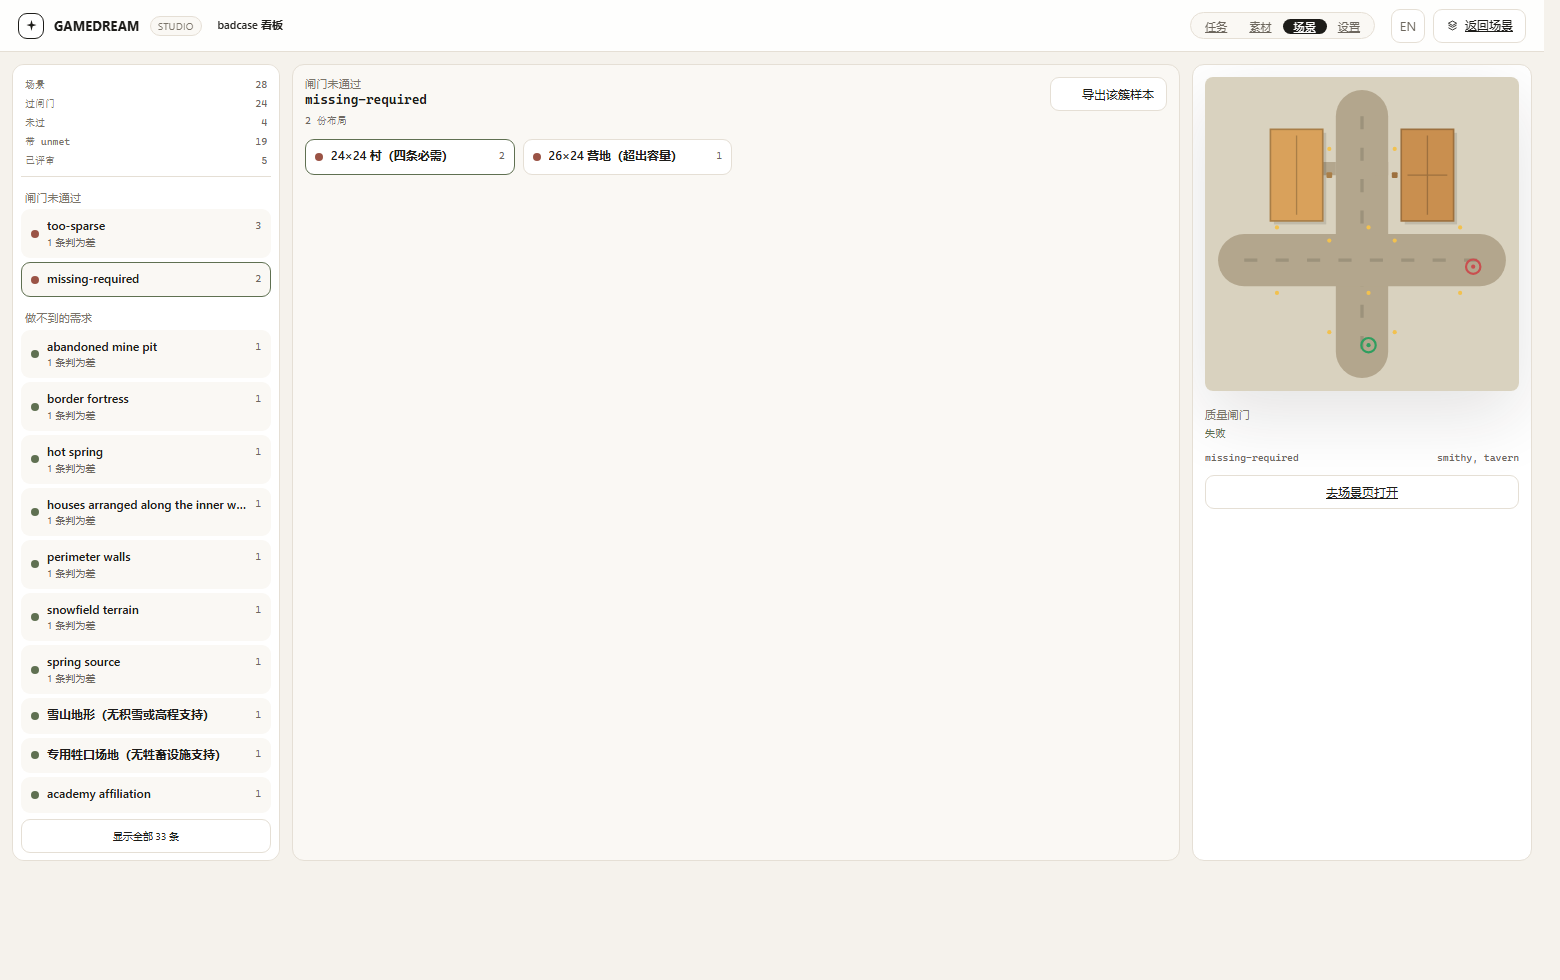
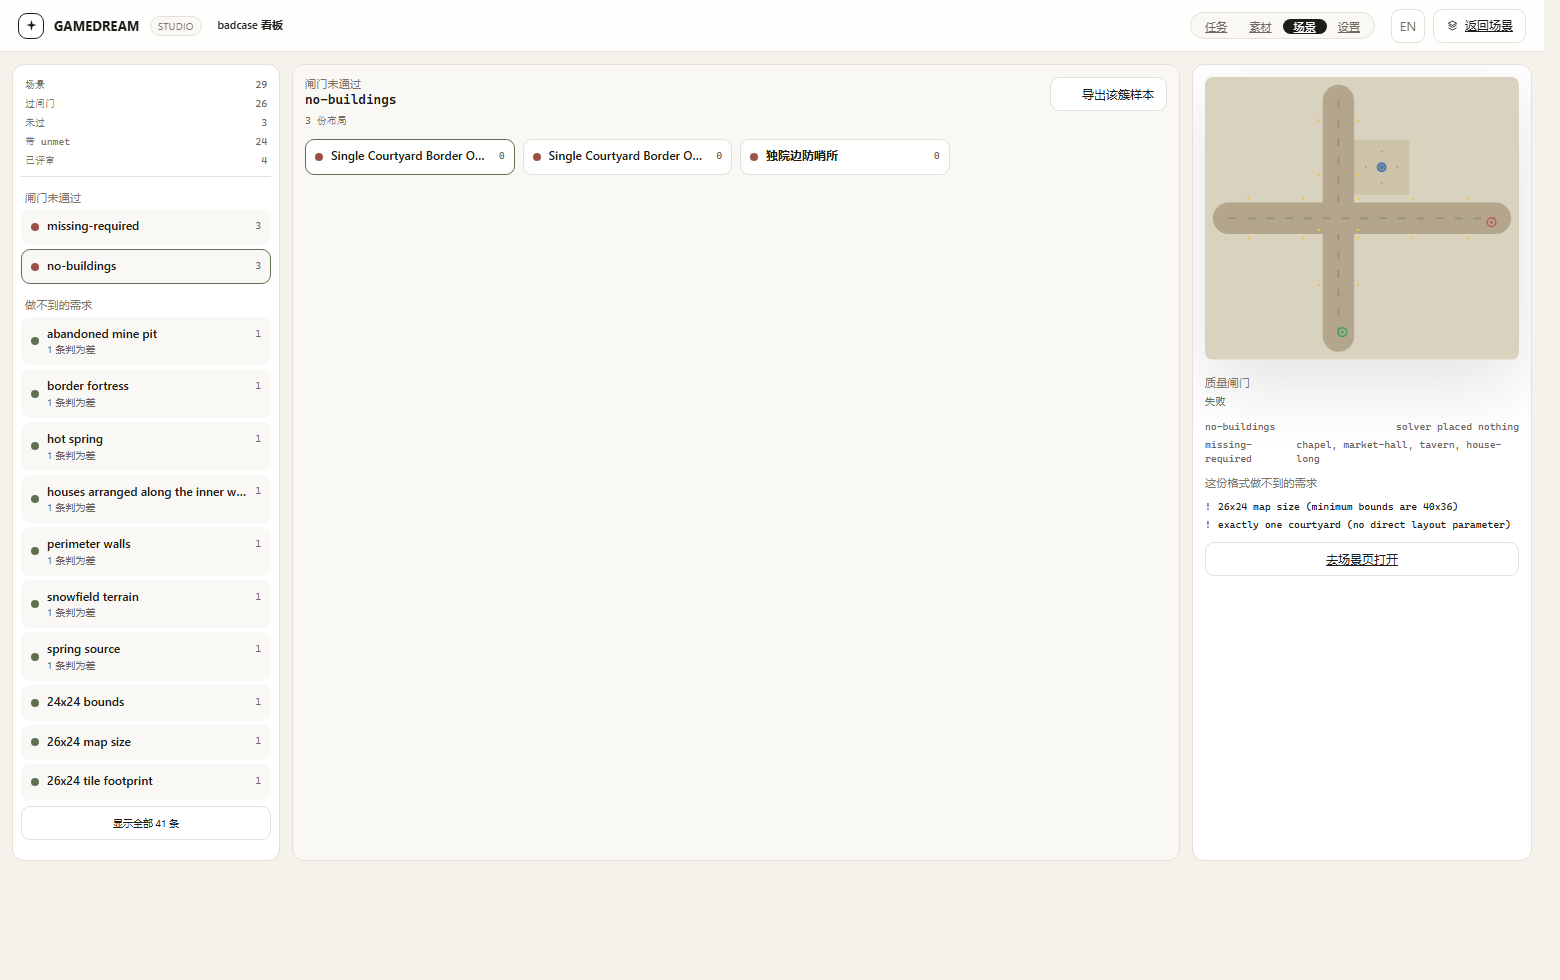
chore: stop hand-authoring scene content in evidence and demos
用户指出还有一条：我为验证求解器手写过 SceneSpec（证据里的 narrow/default/wide，
以及 badcase 看板里四份"超容量" spec）。场景内容只能由项目 agent 产出，
外部 agent 顶多写生成器——这几处都越线了。

- 删掉 docs/evidence/s14-roads/*.spec.json。新增 scripts/scene-road-sweep.mjs：
  基准 spec 从真模型 trace 里取，脚本只替换 roads 一段做受控对照，产物落在 dist/
- scene-insights-demo.mjs 去掉手写的四份极端 spec，改成 --extra <traces.jsonl>
  重放真跑出来的 trace；失败样本改为让 agent 真的跑"超容量"需求得到
- D2 证据按真数据重拍：29 场景 / 26 过 / 3 未过，missing-required×3、no-buildings×3

顺带记录一个真 badcase：需求要 26×24（格式下限 40×36），模型声明了这件事并按 40×36
去做，三栋市政建筑还是摆不下 → solver placed nothing。"模型诚实 + 求解器装不下"会叠加成
独立的一类失败，正是看板该暴露的。

证据 docs/evidence/{s14-roads,d2-insights}/

diff --git a/docs/evidence/d2-insights/README.md b/docs/evidence/d2-insights/README.md
@@ -49,26 +49,45 @@
 
 | 文件 | 看什么 |
 | --- | --- |
-| `board-issues.png` | 选中 `missing-required`：中间 2 份样本，右侧布局 + 失败的闸门明细 |
+| `board-issues.png` | 选中 `no-buildings`：三份样本，右侧是那张 40×36 的空布局 + "solver placed nothing" |
 | `board-unmet.png` | 选中 `coast`：布局本身过闸门（显式标注"它是因为 unmet 进这一簇的"），右侧列出 coast / cliffs / house orientation toward the sea |
 
 数据（`scripts/scene-insights-demo.mjs` 可复现）：
 
 ```
-seeded=28
-totals={"scenes":28,"pass":24,"fail":4,"withUnmet":19,"reviewed":5}
-issues=too-sparse×3, missing-required×2
-unmet=33 clusters
+seeded=29
+totals={"scenes":29,"pass":26,"fail":3,"withUnmet":24,"reviewed":4}
+issues=missing-required×3, no-buildings×3
+unmet=41 clusters
 ```
 
 - 24 条来自 `docs/evidence/scene-batch/traces-v2.jsonl`（真模型的 25 条需求，用今天的求解器重放）
-- 4 条是"地图装不下需求"的极端 spec（26×24 放三栋必需建筑、24×24 放四栋、30×24 切三级台阶、
-  28×26 被海吃掉一半）——**这是求解器今天真的会这么失败**，不是手写的假标签
+- 4 条来自 `dist/badcase/traces.jsonl`（真模型跑"超容量"需求的结果）
+
+**看板里的每一条都是 agent 产物**：脚本只负责把 trace 重放成场景，不写 spec、不编标签。
+第一版为了凑出失败样本，我手写了四份极端 spec——那等于自己造 badcase，
+已经删掉，改成真的让 agent 去跑：
+
+```bash
+cat > dist/badcase/prompts.txt <<'EOF'
+只有一个院子的边防哨所：26×24 格内要有礼拜堂、集市和酒馆
+巴掌大的矿工营地：24×24 里挤下酒馆、铁匠铺、礼拜堂和集市
+悬崖上一块 30×24 的小平台：三级台阶，还要放下礼拜堂
+EOF
+node packages/cli/dist/index.js scene batch \
+  --prompts dist/badcase/prompts.txt --out dist/badcase --workspace <ws>
+# → failed=3, no-buildings×3 / missing-required×3
+```
+
+这批失败很值得看：需求要 26×24，格式下限是 40×36，模型**声明了**这件事
+（`unmet: "26x24 map size (minimum bounds are 40x36)"`）然后按 40×36 去做，
+结果三栋市政建筑还是摆不下，`solver placed nothing`。也就是说"模型诚实 + 求解器装不下"
+会叠加成一种独立 badcase 类型——这正是看板要暴露的。
 
 复现：
 
 ```bash
-node scripts/scene-insights-demo.mjs --out dist/insights-demo
+node scripts/scene-insights-demo.mjs --out dist/insights-demo --extra dist/badcase/traces.jsonl
 node packages/cli/dist/index.js studio --path dist/insights-demo --port 4781
 # http://127.0.0.1:4781/scenes/insights
 ```

diff --git a/docs/evidence/s14-roads/README.md b/docs/evidence/s14-roads/README.md
@@ -40,20 +40,28 @@
 2. **每排尾巴固定空 4 格**。`while (along < limit - 4)` 在剩余正好 4 格时收手，
    短街区因此永远少一栋。改成 `limit - along >= 4`。
 
-## 三档实测（同一 seed、同一张 120×96 的图）
+## 三档实测（同一份真模型 spec，只改 roads）
+
+基准 spec **不是手写的**：取自 `traces-rerun.jsonl` 里"王都城郊的卫星镇，主路宽阔"那条
+真模型输出（120×90，seed 48291317），脚本只替换 `roads` 这一段做受控对照。
+
+```bash
+node scripts/scene-road-sweep.mjs \
+  --from docs/evidence/s14-roads/traces-rerun.jsonl --pick 主路宽阔 --out dist/s14-sweep
+```
 
 | 路网 | 主路 | 街 | 间距 | 建筑 | 街墙 / 院落 | 道路折线 |
 | --- | --- | --- | --- | --- | --- | --- |
-| 窄街老城 | 2 | 1 | 13 | 92 | 70 / 22 | 107 |
-| 默认 | 4 | 2 | 18 | 73 | 61 / 12 | 94 |
-| 宽阔主路 | 6 | 3 | 22 | 91 | 88 / 3 | 101 |
+| 窄街 | 2 | 1 | 13 | 65 | 55 / 10 | 81 |
+| 默认 | 4 | 2 | 18 | 68 | 60 / 8 | 87 |
+| 宽阔 | 6 | 3 | 22 | 78 | 72 / 6 | 88 |
 
-- 窄街：街墙连成片，几乎每条巷子两侧都是房子
+- 窄街：巷子两侧几乎家家贴街，街区碎、院落少
 - 默认：街区之间留出院子
-- 宽街：主路明显是一条大道，街区更大、院落更多
+- 宽阔：主路明显是一条大道，街区更大、街墙更长（72/78）
 
-截图（Godot 真实窗口渲染，1200×1000）：`narrow.png` / `default.png` / `wide.png`，
-对应的 spec 在同名 `.spec.json` 里，可直接 `dream scene build --spec` 复现。
+截图是 Godot 真实窗口渲染（1200×1000）：`narrow.png` / `default.png` / `wide.png`。
+工程产物在 `dist/s14-sweep/<variant>/godot/`，随时可以重新生成。
 
 ## 真模型验证
 
@@ -75,9 +83,10 @@
 ## 复跑
 
 ```bash
-pnpm -w typecheck && pnpm -w test                       # 449 passed / 15 skipped
-node packages/cli/dist/index.js scene build \
-  --spec docs/evidence/s14-roads/narrow.spec.json --out dist/s14/narrow --art-style tile
+pnpm -w typecheck && pnpm -w test                       # 454 passed / 15 skipped
+# 受控对照（基准 spec 来自真模型 trace，只改 roads）
+node scripts/scene-road-sweep.mjs --out dist/s14-sweep
+# 真模型复跑（看它自己怎么读"宽阔/狭窄"）
 node packages/cli/dist/index.js scene batch \
   --prompts dist/s14-batch/prompts.txt --out dist/s14-batch --workspace <ws>
 ```

diff --git a/docs/evidence/s16-scenes-in-project/README.md b/docs/evidence/s16-scenes-in-project/README.md
@@ -107,13 +107,15 @@ GAMEDREAM_SCENE_OK=1
 # 1) 准备一个真实项目
 cp -r dist/req-run/game dist/scene-in-project
 
-# 2) 用真模型产出的 spec 建场景并导出（走 Studio 的项目路径）
+# 2) 用真模型产出的 spec 建场景并导出（spec 从 trace 里取，不手写）
 node --input-type=module -e "
 import { readFileSync } from 'node:fs';
 import { buildScene, exportScene } from './packages/studio/dist/scenes.js';
 const root = 'dist/scene-in-project';
-const spec = JSON.parse(readFileSync(root + '/_agent-spec.json', 'utf8'));
-const outcome = await buildScene(root, { spec });
+const traces = readFileSync('docs/evidence/scene-batch/traces-v2.jsonl', 'utf8')
+  .trim().split('\\n').map((line) => JSON.parse(line));
+const trace = traces.find((item) => (item.spec?.name ?? '').includes('渔村'));
+const outcome = await buildScene(root, { spec: trace.spec });
 exportScene(root, outcome.scene.id);
 "
 
